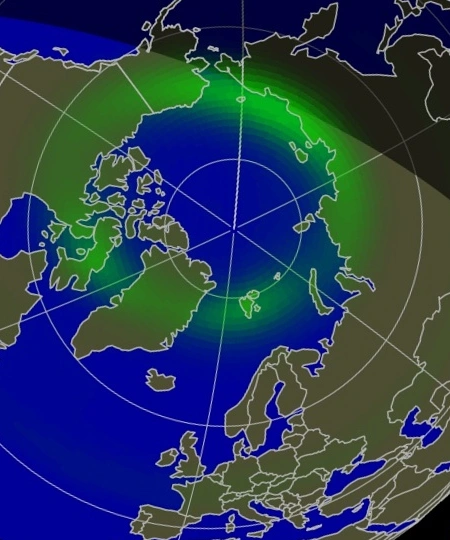
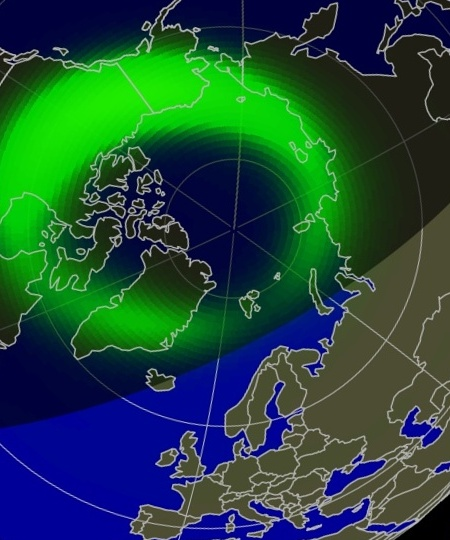
function to get the image on php

diff --git a/index.php b/index.php
@@ -2,6 +2,55 @@
 <html lang="en">
 
 <?php 
+
+function updateAuroraForecastImage() {
+    $tmp_file = tempnam(sys_get_temp_dir(), 'aurora_forecast');
+    $file_url = './pub/aurora_forecast_europe.webp';
+    #$file_url = '/var/www/aurora/pub/aurora_forecast_europe.webp';
+    $remote_url = 'https://services.swpc.noaa.gov/images/aurora-forecast-northern-hemisphere.jpg';
+    $five_minutes_ago = time() - (5 * 60); // Five minutes ago
+
+    // Check if the file exists and is older than 5 minutes
+    if (file_exists($file_url) && filemtime($file_url) > $five_minutes_ago) {
+        return; // Exit if the file is up to date
+    } 
+
+    // Download the image using curl
+    $ch = curl_init();
+    $fp = fopen($tmp_file, 'w');
+    curl_setopt($ch, CURLOPT_URL, $remote_url);
+    curl_setopt($ch, CURLOPT_FILE, $fp);
+    curl_setopt($ch, CURLOPT_HEADER, 0);
+    curl_exec($ch);
+    curl_close($ch);
+    fclose($fp);
+    
+    // Rotate the image
+    exec("convert $tmp_file -rotate 105 $tmp_file");
+    
+    // Crop the image
+    exec("convert $tmp_file -crop 450x540+324+280 $tmp_file");
+    
+    // Move the temporary file to its final location
+    copy($tmp_file, $file_url);
+    
+    // Remove the temporary file
+    unlink($tmp_file);
+    
+    // Change ownership and permissions
+    chown($file_url, posix_getpwuid(posix_geteuid())['name']);
+    chmod($file_url, 0755);
+    
+    // Change ownership and permissions of the directory
+    $dir = './pub/';
+    #$dir = '/var/www/aurora/pub/';
+    chown($dir, posix_getpwuid(posix_geteuid())['name']);
+    chmod($dir, 0755);
+}
+
+// Execute the function
+updateAuroraForecastImage();
+
 function get_color_by_kp($kp_index) {
     return ($kp_index == 4 ? 'orange' : ($kp_index > 4 ? 'red' : '#0ad503'));
 }
